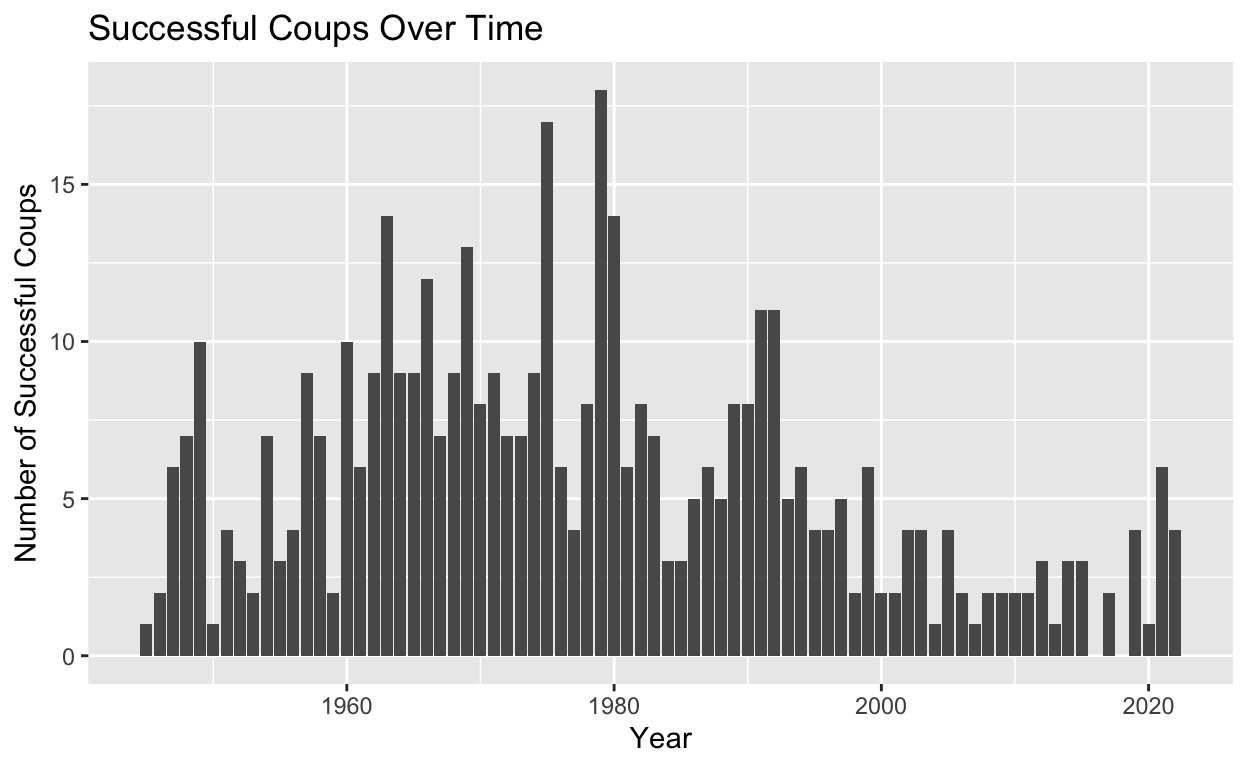
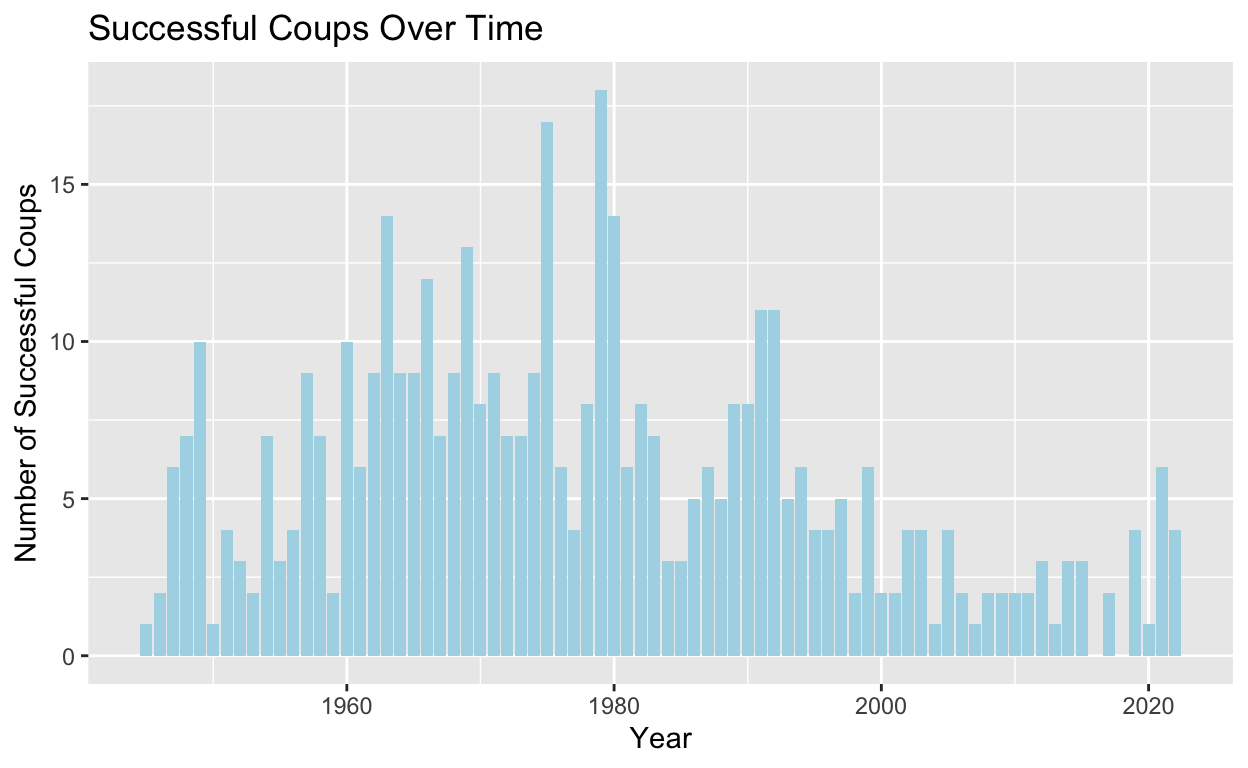
Fourth Try!

Changed region(s): [[0.0938, 0.125, 0.9688, 0.875]]

diff --git a/index.html b/index.html
@@ -1533,17 +1533,19 @@ code span.wa { color: #5e5e5e; font-style: italic; } /* Warning */
 <span></span>
 <span><span class='co'>##  Introductory Plot Visualizing Secondary Outcome of Interest</span></span>
 <span><span class='va'>coup_data</span> <span class='op'>|&gt;</span></span>
-<span>  <span class='fu'><a href='https://ggplot2.tidyverse.org/reference/ggplot.html'>ggplot</a></span><span class='op'>(</span>mapping <span class='op'>=</span> <span class='fu'><a href='https://ggplot2.tidyverse.org/reference/aes.html'>aes</a></span><span class='op'>(</span>x <span class='op'>=</span> <span class='va'>year</span>, y <span class='op'>=</span> <span class='va'>realized</span><span class='op'>)</span><span class='op'>)</span> <span class='op'>+</span> <span class='fu'><a href='https://ggplot2.tidyverse.org/reference/geom_bar.html'>geom_col</a></span><span class='op'>(</span><span class='op'>)</span> <span class='op'>+</span> <span class='fu'><a href='https://ggplot2.tidyverse.org/reference/labs.html'>labs</a></span><span class='op'>(</span>x <span class='op'>=</span> <span class='st'>"Year"</span>, y <span class='op'>=</span> <span class='st'>"Number of Successful Coups"</span>, title <span class='op'>=</span> <span class='st'>"Successful Coups Over Time"</span><span class='op'>)</span></span></code></pre>
+<span>  <span class='fu'><a href='https://ggplot2.tidyverse.org/reference/ggplot.html'>ggplot</a></span><span class='op'>(</span>mapping <span class='op'>=</span> <span class='fu'><a href='https://ggplot2.tidyverse.org/reference/aes.html'>aes</a></span><span class='op'>(</span>x <span class='op'>=</span> <span class='va'>year</span>, y <span class='op'>=</span> <span class='va'>realized</span><span class='op'>)</span><span class='op'>)</span> <span class='op'>+</span> <span class='fu'><a href='https://ggplot2.tidyverse.org/reference/geom_bar.html'>geom_col</a></span><span class='op'>(</span>fill <span class='op'>=</span> <span class='st'>"lightblue"</span><span class='op'>)</span> <span class='op'>+</span> </span>
+<span>  <span class='fu'><a href='https://ggplot2.tidyverse.org/reference/labs.html'>labs</a></span><span class='op'>(</span>x <span class='op'>=</span> <span class='st'>"Year"</span>, y <span class='op'>=</span> <span class='st'>"Number of Successful Coups"</span>, title <span class='op'>=</span> <span class='st'>"Successful Coups Over Time"</span><span class='op'>)</span></span></code></pre>
 </div>
 <p><img src="index_files/figure-html5/unnamed-chunk-1-1.png" width="624" /></p>
 </div>
 <div class="layout-chunk" data-layout="l-body">
 <div class="sourceCode">
-<pre class="sourceCode r"><code class="sourceCode r"><span><span class='co'># Creating graph from coup data that shoes the density of attempts of military involvement in different coup outcomes over time</span></span>
+<pre class="sourceCode r"><code class="sourceCode r"><span><span class='co'># Creating graph from coup data that shows the density of attempts of military involvement in different coup outcomes over time</span></span>
 <span><span class='va'>coup_data</span> <span class='op'>|&gt;</span></span>
 <span>  <span class='fu'><a href='https://ggplot2.tidyverse.org/reference/ggplot.html'>ggplot</a></span><span class='op'>(</span><span class='fu'><a href='https://ggplot2.tidyverse.org/reference/aes.html'>aes</a></span><span class='op'>(</span>x <span class='op'>=</span> <span class='va'>year</span><span class='op'>)</span><span class='op'>)</span> <span class='op'>+</span></span>
-<span><span class='fu'><a href='https://ggplot2.tidyverse.org/reference/geom_histogram.html'>geom_histogram</a></span><span class='op'>(</span>mapping <span class='op'>=</span> <span class='fu'><a href='https://ggplot2.tidyverse.org/reference/aes.html'>aes</a></span><span class='op'>(</span>y <span class='op'>=</span> <span class='fu'><a href='https://ggplot2.tidyverse.org/reference/aes_eval.html'>after_stat</a></span><span class='op'>(</span><span class='va'>density</span><span class='op'>)</span><span class='op'>)</span>, binwidth<span class='op'>=</span><span class='fl'>5</span><span class='op'>)</span> <span class='op'>+</span></span>
-<span><span class='fu'><a href='https://ggplot2.tidyverse.org/reference/facet_wrap.html'>facet_wrap</a></span><span class='op'>(</span><span class='op'>~</span> <span class='va'>event_type</span><span class='op'>)</span> <span class='op'>+</span> <span class='fu'><a href='https://ggplot2.tidyverse.org/reference/labs.html'>labs</a></span><span class='op'>(</span>x <span class='op'>=</span> <span class='st'>"Year"</span>, title <span class='op'>=</span> <span class='st'>"Proportion of Military Involvement in 20th-21st Century Regime Change Events "</span><span class='op'>)</span></span></code></pre>
+<span><span class='fu'><a href='https://ggplot2.tidyverse.org/reference/geom_histogram.html'>geom_histogram</a></span><span class='op'>(</span>mapping <span class='op'>=</span> <span class='fu'><a href='https://ggplot2.tidyverse.org/reference/aes.html'>aes</a></span><span class='op'>(</span>y <span class='op'>=</span> <span class='fu'><a href='https://ggplot2.tidyverse.org/reference/aes_eval.html'>after_stat</a></span><span class='op'>(</span><span class='va'>density</span><span class='op'>)</span><span class='op'>)</span>, binwidth <span class='op'>=</span> <span class='fl'>5</span>, fill <span class='op'>=</span> <span class='st'>"lightblue"</span><span class='op'>)</span> <span class='op'>+</span></span>
+<span><span class='fu'><a href='https://ggplot2.tidyverse.org/reference/facet_wrap.html'>facet_wrap</a></span><span class='op'>(</span><span class='op'>~</span> <span class='va'>event_type</span><span class='op'>)</span> <span class='op'>+</span> </span>
+<span>  <span class='fu'><a href='https://ggplot2.tidyverse.org/reference/labs.html'>labs</a></span><span class='op'>(</span>x <span class='op'>=</span> <span class='st'>"Year"</span>, title <span class='op'>=</span> <span class='st'>"Proportion of Military Involvement in 20th-21st Century Regime Change Events "</span><span class='op'>)</span></span></code></pre>
 </div>
 <p><img src="index_files/figure-html5/unnamed-chunk-2-1.png" width="624" /></p>
 </div>
@@ -1584,39 +1586,13 @@ code span.wa { color: #5e5e5e; font-style: italic; } /* Warning */
 <span>  <span class='fu'><a href='https://dplyr.tidyverse.org/reference/summarise.html'>summarize</a></span><span class='op'>(</span>realized_mean <span class='op'>=</span> <span class='fu'><a href='https://rdrr.io/r/base/mean.html'>mean</a></span><span class='op'>(</span><span class='va'>realized</span><span class='op'>)</span><span class='op'>)</span><span class='op'>|&gt;</span></span>
 <span>  <span class='fu'><a href='https://tidyr.tidyverse.org/reference/pivot_wider.html'>pivot_wider</a></span><span class='op'>(</span>names_from <span class='op'>=</span> <span class='va'>military</span>, values_from <span class='op'>=</span> <span class='va'>realized_mean</span><span class='op'>)</span><span class='op'>|&gt;</span></span>
 <span>  <span class='fu'><a href='https://dplyr.tidyverse.org/reference/mutate.html'>mutate</a></span><span class='op'>(</span>ATE <span class='op'>=</span> <span class='va'>`1`</span> <span class='op'>-</span> <span class='va'>`0`</span><span class='op'>)</span></span>
-<span>  </span>
-<span><span class='co'>#Graph displaying the density for the ATE</span></span>
-<span><span class='va'>mil_boots</span> <span class='op'>|&gt;</span></span>
-<span>  <span class='fu'><a href='https://ggplot2.tidyverse.org/reference/ggplot.html'>ggplot</a></span><span class='op'>(</span><span class='fu'><a href='https://ggplot2.tidyverse.org/reference/aes.html'>aes</a></span><span class='op'>(</span>x <span class='op'>=</span> <span class='va'>ATE</span><span class='op'>)</span><span class='op'>)</span> <span class='op'>+</span></span>
-<span>  <span class='fu'><a href='https://ggplot2.tidyverse.org/reference/geom_histogram.html'>geom_histogram</a></span><span class='op'>(</span><span class='fu'><a href='https://ggplot2.tidyverse.org/reference/aes.html'>aes</a></span><span class='op'>(</span>y <span class='op'>=</span> <span class='fu'><a href='https://ggplot2.tidyverse.org/reference/aes_eval.html'>after_stat</a></span><span class='op'>(</span><span class='va'>density</span><span class='op'>)</span><span class='op'>)</span>, binwidth <span class='op'>=</span> <span class='fl'>0.005</span>, fill <span class='op'>=</span> <span class='st'>"darkseagreen3"</span><span class='op'>)</span> <span class='op'>+</span> <span class='fu'><a href='https://ggplot2.tidyverse.org/reference/labs.html'>labs</a></span><span class='op'>(</span>x <span class='op'>=</span> <span class='st'>"Average Military Treatment Effect"</span>, y <span class='op'>=</span> <span class='st'>"Density"</span>, title <span class='op'>=</span> <span class='st'>"Effect of Military Actors on Coup Realization"</span><span class='op'>)</span></span></code></pre>
-</div>
-<img src="index_files/figure-html5/unnamed-chunk-3-1.png" width="624" />
-<div class="sourceCode">
-<pre class="sourceCode r"><code class="sourceCode r"><span><span class='va'>mil_boots</span></span></code></pre>
-</div>
-<pre><code># A tibble: 1,000 × 4
-# Groups:   replicate [1,000]
-   replicate   `0`   `1`      ATE
-       &lt;int&gt; &lt;dbl&gt; &lt;dbl&gt;    &lt;dbl&gt;
- 1         1 0.423 0.467  0.0438 
- 2         2 0.429 0.412 -0.0170 
- 3         3 0.410 0.423  0.0125 
- 4         4 0.449 0.5    0.0506 
- 5         5 0.422 0.444  0.0221 
- 6         6 0.4   0.450  0.0501 
- 7         7 0.447 0.489  0.0422 
- 8         8 0.470 0.479  0.00894
- 9         9 0.432 0.457  0.0253 
-10        10 0.476 0.448 -0.0281 
-# ℹ 990 more rows</code></pre>
-<div class="sourceCode">
-<pre class="sourceCode r"><code class="sourceCode r"><span><span class='co'>#Creating the confidence intervals</span></span>
+<span></span>
+<span><span class='co'>#Creating the confidence intervals</span></span>
 <span><span class='va'>mil_ci_95</span> <span class='op'>&lt;-</span> <span class='va'>mil_boots</span> <span class='op'>|&gt;</span></span>
 <span>  <span class='fu'><a href='https://dplyr.tidyverse.org/reference/select.html'>select</a></span><span class='op'>(</span><span class='va'>replicate</span>, <span class='va'>ATE</span><span class='op'>)</span> <span class='op'>|&gt;</span></span>
-<span>  <span class='fu'><a href='https://infer.tidymodels.org/reference/get_confidence_interval.html'>get_confidence_interval</a></span><span class='op'>(</span>level <span class='op'>=</span> <span class='fl'>0.95</span>, type <span class='op'>=</span> <span class='st'>"percentile"</span><span class='op'>)</span><span class='op'>|&gt;</span></span>
-<span>  <span class='fu'>knitr</span><span class='fu'>::</span><span class='fu'><a href='https://rdrr.io/pkg/knitr/man/kable.html'>kable</a></span><span class='op'>(</span>col.names <span class='op'>=</span> <span class='fu'><a href='https://rdrr.io/r/base/c.html'>c</a></span><span class='op'>(</span><span class='st'>"Lower Confidence Interval"</span>, <span class='st'>"Upper Confidence Interval"</span><span class='op'>)</span>,digits <span class='op'>=</span> <span class='fl'>4</span><span class='op'>)</span></span>
-<span>  </span>
-<span><span class='va'>mil_ci_95</span></span></code></pre>
+<span>  <span class='fu'><a href='https://infer.tidymodels.org/reference/get_confidence_interval.html'>get_confidence_interval</a></span><span class='op'>(</span>level <span class='op'>=</span> <span class='fl'>0.95</span>, type <span class='op'>=</span> <span class='st'>"percentile"</span><span class='op'>)</span></span>
+<span></span>
+<span><span class='fu'>knitr</span><span class='fu'>::</span><span class='fu'><a href='https://rdrr.io/pkg/knitr/man/kable.html'>kable</a></span><span class='op'>(</span><span class='va'>mil_ci_95</span>, col.names <span class='op'>=</span> <span class='fu'><a href='https://rdrr.io/r/base/c.html'>c</a></span><span class='op'>(</span><span class='st'>"Lower Confidence Interval"</span>, <span class='st'>"Upper Confidence Interval"</span><span class='op'>)</span>, digits <span class='op'>=</span> <span class='fl'>4</span><span class='op'>)</span></span></code></pre>
 </div>
 <table>
 <thead>
@@ -1627,11 +1603,23 @@ code span.wa { color: #5e5e5e; font-style: italic; } /* Warning */
 </thead>
 <tbody>
 <tr class="odd">
-<td style="text-align: right;">-0.0527</td>
-<td style="text-align: right;">0.0747</td>
+<td style="text-align: right;">-0.0538</td>
+<td style="text-align: right;">0.0708</td>
 </tr>
 </tbody>
 </table>
+</div>
+<div class="layout-chunk" data-layout="l-body">
+<div class="sourceCode">
+<pre class="sourceCode r"><code class="sourceCode r"><span><span class='co'>#Graph displaying the density for the ATE</span></span>
+<span><span class='va'>mil_boots</span> <span class='op'>|&gt;</span></span>
+<span>  <span class='fu'><a href='https://ggplot2.tidyverse.org/reference/ggplot.html'>ggplot</a></span><span class='op'>(</span><span class='fu'><a href='https://ggplot2.tidyverse.org/reference/aes.html'>aes</a></span><span class='op'>(</span>x <span class='op'>=</span> <span class='va'>ATE</span><span class='op'>)</span><span class='op'>)</span> <span class='op'>+</span></span>
+<span>  <span class='fu'><a href='https://ggplot2.tidyverse.org/reference/geom_histogram.html'>geom_histogram</a></span><span class='op'>(</span><span class='fu'><a href='https://ggplot2.tidyverse.org/reference/aes.html'>aes</a></span><span class='op'>(</span>y <span class='op'>=</span> <span class='fu'><a href='https://ggplot2.tidyverse.org/reference/aes_eval.html'>after_stat</a></span><span class='op'>(</span><span class='va'>density</span><span class='op'>)</span><span class='op'>)</span>, binwidth <span class='op'>=</span> <span class='fl'>0.005</span>, fill <span class='op'>=</span> <span class='st'>"darkseagreen3"</span><span class='op'>)</span> <span class='op'>+</span></span>
+<span>  <span class='fu'><a href='https://ggplot2.tidyverse.org/reference/geom_abline.html'>geom_vline</a></span><span class='op'>(</span>xintercept <span class='op'>=</span> <span class='fu'><a href='https://rdrr.io/r/base/unlist.html'>unlist</a></span><span class='op'>(</span><span class='va'>mil_ci_95</span><span class='op'>)</span>, color <span class='op'>=</span> <span class='st'>"darkred"</span><span class='op'>)</span> <span class='op'>+</span></span>
+<span>  <span class='fu'><a href='https://ggplot2.tidyverse.org/reference/labs.html'>labs</a></span><span class='op'>(</span>x <span class='op'>=</span> <span class='st'>"Average Military Treatment Effect"</span>, y <span class='op'>=</span> <span class='st'>"Density"</span>, </span>
+<span>       title <span class='op'>=</span> <span class='st'>"Effect of Military Actors on Coup Realization"</span><span class='op'>)</span></span></code></pre>
+</div>
+<p><img src="index_files/figure-html5/unnamed-chunk-4-1.png" width="624" /></p>
 </div>
 <p>The above is a difference in differences. In terms of the difference in means, the estimated average treatment effect is a small positive number, at just .0099. That means that essentially there is not much of a difference of a coup getting realized if the military is involved. What it does show is that there isn’t a decrease either. That is, having military involvement does not necessarily mean that a coup is less likely to be realized. This is because there is a positive relationship between the two variables. Thus, while the confidence intervals will determine whether or not the null hypothesis can be rejected, the ATE allows us to examine the relationship in the first place.</p>
 <p>This visualization demonstrates that military involvement does not decisively impact whether or not a coup d’etat is realized or not. This is because the 95 confidence intervals include zero. The Lower Confidence Interval is -0.05203567 and the Upper Confidence Interval is 0.06772111. The greater meaning of this is that military actors, contrary to expectation, do not actually increase the likelihood that a coup will be realized. This provides evidence against the hypothesis that trained and disciplined military cadres would be more prepared to follow through on a coup than civilian conspirators.</p>
@@ -1713,7 +1701,8 @@ Residual standard error: 0.4026 on 971 degrees of freedom
 Multiple R-squared:  0.3516,    Adjusted R-squared:  0.3456 
 F-statistic:  58.5 on 9 and 971 DF,  p-value: &lt; 2.2e-16</code></pre>
 <div class="sourceCode">
-<pre class="sourceCode r"><code class="sourceCode r"><span><span class='co'>#Formatting the multiple regression so that I can see the measurements of the relationships and the p alues for all of the variables</span></span>
+<pre class="sourceCode r"><code class="sourceCode r"><span><span class='co'>#Formatting the multiple regression </span></span>
+<span><span class='co'>#This is so I can see relationship measurements and p values</span></span>
 <span><span class='kw'><a href='https://rdrr.io/r/base/library.html'>library</a></span><span class='op'>(</span><span class='va'>stargazer</span><span class='op'>)</span></span>
 <span><span class='fu'><a href='https://rdrr.io/pkg/stargazer/man/stargazer.html'>stargazer</a></span><span class='op'>(</span><span class='va'>multreg</span>, type <span class='op'>=</span> <span class='st'>"text"</span><span class='op'>)</span></span></code></pre>
 </div>
@@ -1773,7 +1762,7 @@ Note:               *p&lt;0.1; **p&lt;0.05; ***p&lt;0.01</code></pre>
 <h2 id="attribution">Attribution</h2>
 <p>Peyton, Buddy, Joseph Bajjalieh, Dan Shalmon, Michael Martin, Jonathan Bonaguro, and Emilio Soto. 2023. Cline Center Coup d’État Project Dataset. Cline Center for Advanced Social Research. V.2.1.2. February 23. University of Illinois Urbana-Champaign. doi: 10.13012/B2IDB-9651987_V6</p>
 <hr />
-<div class="sourceCode" id="cb5"><pre class="sourceCode r distill-force-highlighting-css"><code class="sourceCode r"></code></pre></div>
+<div class="sourceCode" id="cb4"><pre class="sourceCode r distill-force-highlighting-css"><code class="sourceCode r"></code></pre></div>
 <!--radix_placeholder_article_footer-->
 <!--/radix_placeholder_article_footer-->
 </div>
